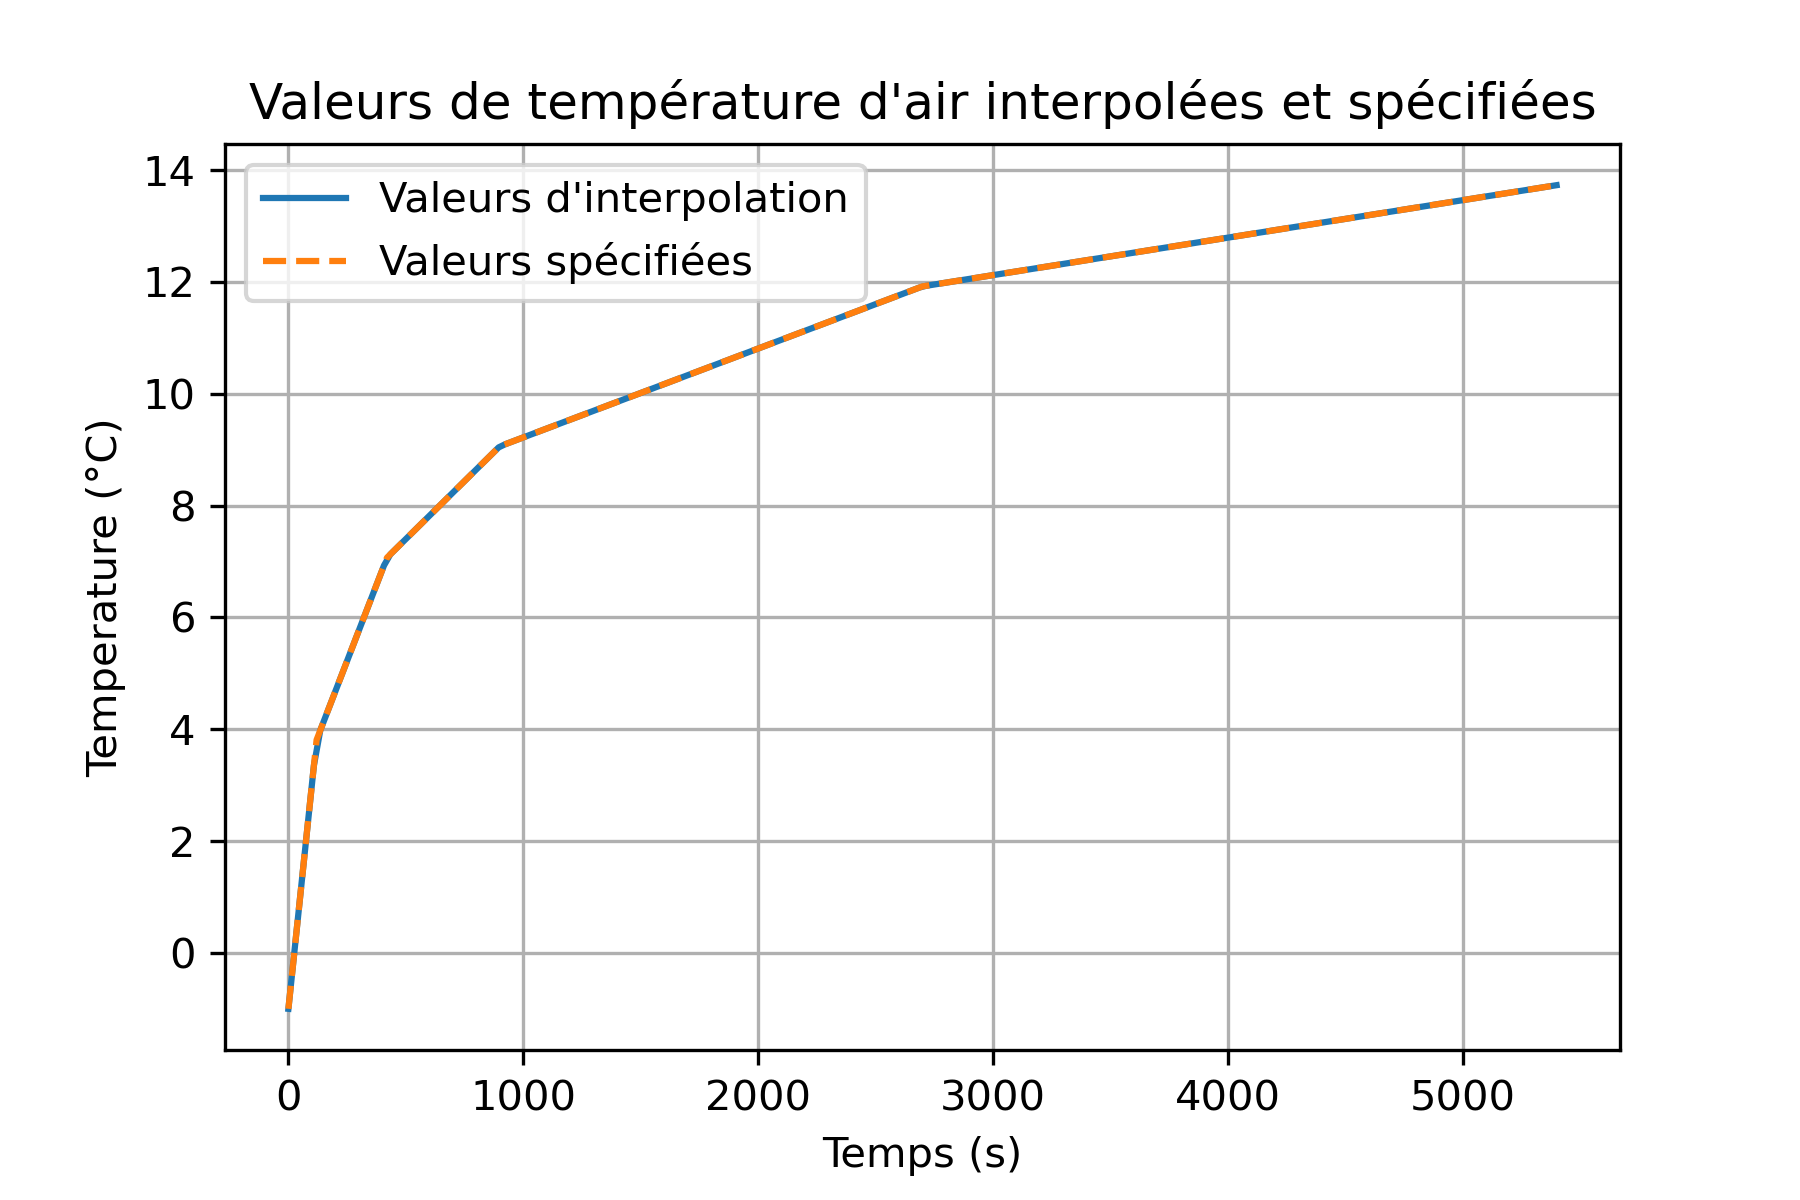
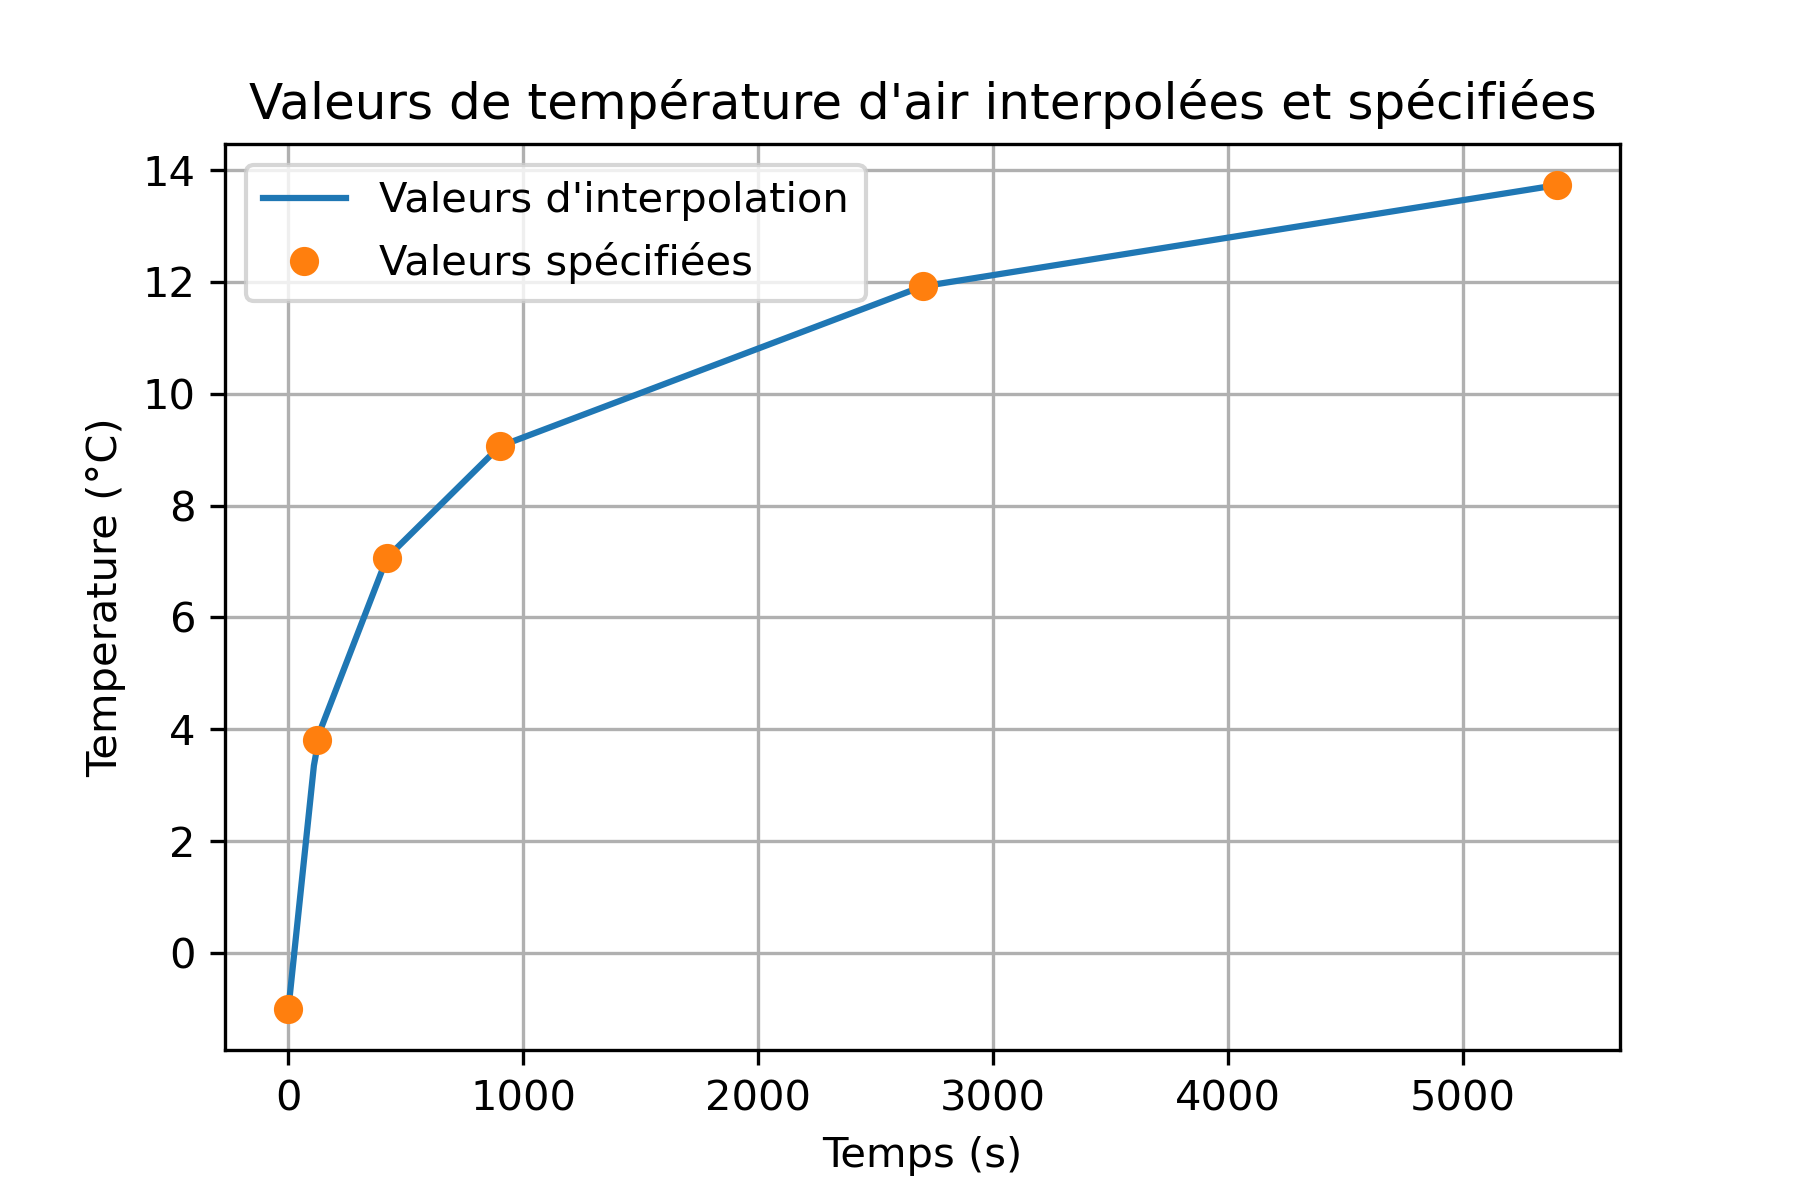
Ajout "marker" dans plot

diff --git a/patinoire_analyse.py b/patinoire_analyse.py
@@ -68,7 +68,7 @@ for i in range(len(temps)):
 temperature_air = [-1, 3.81 , 7.07 , 9.06 , 11.92 , 13.73 ] 
 
 
-fonction_plot([x,temps],[y , temperature_air], ["Valeurs d'interpolation","Valeurs spécifiées"],["solid","dashed"], 
+fonction_plot([x,temps],[y , temperature_air], ["Valeurs d'interpolation","Valeurs spécifiées"],["solid"," "],["","o"], 
                       xlabel='Temps (s)', 
                       ylabel='Temperature (°C)', 
                       title="Valeurs de température d'air interpolées et spécifiées", 
@@ -85,7 +85,7 @@ for i,t in enumerate(points_temps_sec):
 
 
 points_temps_min = np.arange(0,tf+dt,dt,dtype="float")/60
-fonction_plot([points_temps_min], [temperature_air,temperature_liquide[:,1]], ["Air","Glycol"],["solid","dashed"], 
+fonction_plot([points_temps_min], [temperature_air,temperature_liquide[:,1]], ["Air","Glycol"],["solid","dashed"], ["",""], 
               xlabel="Temps [min]",
               ylabel="Température [C°]",
               title="Évolution de la température de l'air et du glycol",
@@ -98,14 +98,14 @@ fonction_plot([points_temps_min], [temperature_air,temperature_liquide[:,1]], ["
 
 Z_pos = np.flip(mesh_1D(Z, nz))
 
-fonction_plot([Z_pos],[temperature_glace[1][:,-1],temperature_glace_permanent[1][:,-1]],["Transitoire","Permanent"],["solid","dashed"],
+fonction_plot([Z_pos],[temperature_glace[1][:,-1],temperature_glace_permanent[1][:,-1]],["Transitoire","Permanent"],["solid","dashed"],["",""],
          xlabel = "Position [m]",
          ylabel = "Température [C°]",
          title = "Profil de température dans la glace et le béton après 90min",
          xlines=[0.05,0.15],
          savename = "profile_temp") 
 
-fonction_plot([points_temps_min,temps_temperature_experimental],[temperature_glace[1][-1,:],temperature_glace_experimental],["MDF","Expérimental"],["solid","dashed"],
+fonction_plot([points_temps_min,temps_temperature_experimental],[temperature_glace[1][-1,:],temperature_glace_experimental],["MDF","Expérimental"],["solid","dashed"],["",""],
          xlabel = "Temps [sec]",
          ylabel = "Température [C°]",
          title = "Évolution de la température à la surface de la glace selon le temps",

diff --git a/patinoire_fct.py b/patinoire_fct.py
@@ -176,7 +176,7 @@ def interpoler(x,y,x_interpo):
     return y_interpo
 
 
-def fonction_plot(x_data_list, y_data_list, list_labels, list_linestyles,savename='', xlabel='', ylabel='', title='',xlines='', grid=True, legend=True):
+def fonction_plot(x_data_list, y_data_list, list_labels, list_linestyles, list_marker, savename='', xlabel='', ylabel='', title='',xlines='', grid=True, legend=True):
     """fonction permettant de tracer une ou plusieurs courbes.
     
     Entrées:
@@ -197,7 +197,7 @@ def fonction_plot(x_data_list, y_data_list, list_labels, list_linestyles,savenam
             b = 0
         else :
             b= i
-        plt.plot(x_data_list[b], y_data_list[i], label=list_labels[i], linestyle=list_linestyles[i])
+        plt.plot(x_data_list[b], y_data_list[i], label=list_labels[i], linestyle=list_linestyles[i], marker = list_marker[i])
         
         
     if xlines:
